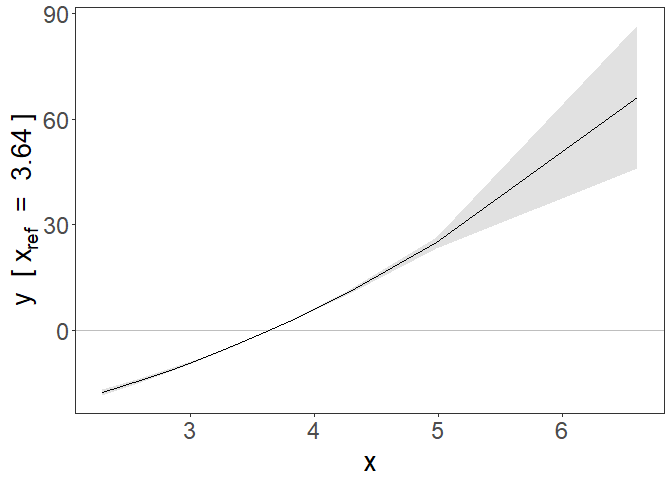
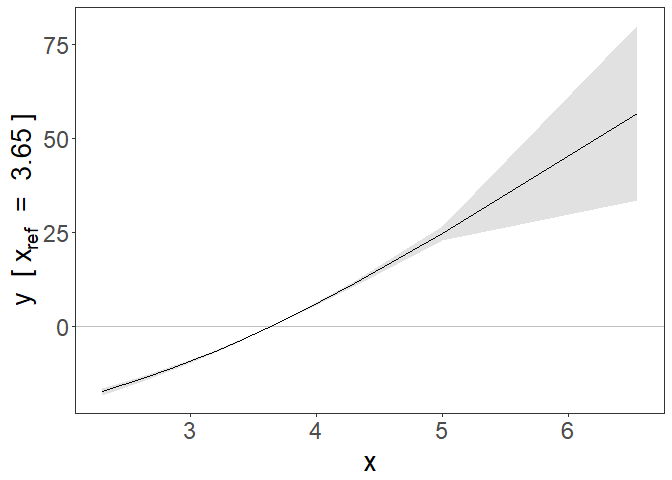
fixed missing cases breaking function

diff --git a/README.md b/README.md
@@ -66,21 +66,21 @@ devtools::load_all()
 ## create some data to practise on
 test_data<-create_ind_data(N=10000, beta2=2, beta1=1)
 # this creates quadratic.Y  = x + 2x^2 + errorY 
-head(test_data)
-#>   g           u    errorX      errorY        X linear.Y quadratic.Y   sqrt.Y
-#> 1 0 0.802975431 0.9579160  0.42883666 3.760891 4.832108    33.12072 3.010519
-#> 2 1 0.300695505 0.7700275 -0.79360776 3.320723 2.767672    24.82207 1.269234
-#> 3 0 0.942667757 1.6159523 -0.18407405 4.558620 5.128680    46.69071 2.705153
-#> 4 1 0.258957808 1.1221920 -0.33885723 3.631150 3.499459    29.86996 1.773867
-#> 5 0 0.329939421 0.7021331  0.06028663 3.032073 3.356311    21.74324 2.065523
-#> 6 1 0.007098159 0.2115599 -0.30224932 2.468658 2.172087    14.36063 1.274626
-#>       log.Y threshold.Y fracpoly.Y
-#> 1 2.3958730    4.832108   7.481421
-#> 2 0.6471312    2.767672   5.168037
-#> 3 2.0870801    5.128680   8.162720
-#> 4 1.1578584    3.499459   6.078558
-#> 5 1.4334846    3.356311   5.574803
-#> 6 0.6071039    2.172087   3.979437
+round(head(test_data), 2)
+#>   g    u errorX errorY    X linear.Y quadratic.Y sqrt.Y log.Y threshold.Y
+#> 1 2 0.51   5.90  -0.66 8.91     8.66      167.33   2.73  1.94        8.66
+#> 2 0 0.11   3.52   0.74 5.63     6.46       69.95   3.20  2.56        6.46
+#> 3 1 0.28   1.82  -0.04 4.35     4.53       42.33   2.26  1.65        4.53
+#> 4 0 0.32   1.51  -0.49 3.82     3.59       32.84   1.72  1.10        3.59
+#> 5 1 0.55   3.06  -0.73 5.86     5.57       74.26   2.13  1.48        5.57
+#> 6 0 0.55   0.19   0.50 2.75     3.69       18.76   2.60  1.96        3.69
+#>   fracpoly.Y
+#> 1      13.03
+#> 2       9.92
+#> 3       7.47
+#> 4       6.27
+#> 5       9.10
+#> 6       5.71
 ```
 
 Then we use create_nlmr_summary to summarise it.
@@ -98,14 +98,14 @@ summ_data<-create_nlmr_summary(y = test_data$quadratic.Y,
                                 controlsonly = FALSE,
                                 q = 10)
 
-head(summ_data$summary)
-#>          bx       by        bxse       byse    xmean     xmin     xmax
-#> 1 0.2514030 2.779295 0.005842237 0.08256328 2.458526 2.292075 2.710064
-#> 2 0.2387185 2.851723 0.003022464 0.06280557 2.754087 2.539313 2.986062
-#> 3 0.2476249 3.151911 0.002801175 0.06228915 2.952464 2.739957 3.136492
-#> 4 0.2417463 3.304672 0.002187074 0.05758683 3.126968 2.932898 3.384688
-#> 5 0.2445436 3.625258 0.002462056 0.05953798 3.286819 3.090312 3.470265
-#> 6 0.2361745 3.601040 0.003103201 0.06638415 3.483181 3.277492 3.687405
+round(head(summ_data$summary), 2)
+#>     bx   by bxse byse xmean xmin xmax
+#> 1 0.24 2.66 0.01 0.08  2.46 2.30 2.72
+#> 2 0.23 2.75 0.00 0.06  2.76 2.57 2.94
+#> 3 0.22 2.87 0.00 0.06  2.95 2.76 3.12
+#> 4 0.22 2.97 0.00 0.06  3.12 2.94 3.29
+#> 5 0.22 3.25 0.00 0.06  3.30 3.11 3.47
+#> 6 0.23 3.45 0.00 0.07  3.49 3.29 3.69
 ```
 
 Note 1: This example uses the residual method, which relies on
@@ -128,14 +128,14 @@ summ_covar<-create_nlmr_summary(y = test_data$quadratic.Y,
                                 strata_method = "residual", 
                                 q = 10)
   
-head(summ_covar$summary)
-#>            bx         by         bxse        byse    xmean     xmin     xmax
-#> 1 0.018331433 -1.7791212 2.257906e-03 0.370393684 3.497207 2.292075 7.310528
-#> 2 0.008517503 -0.6219498 2.704356e-04 0.019751144 2.969934 2.558453 2.912190
-#> 3 0.008984610 -0.6889187 1.750636e-04 0.014140987 3.214836 2.751615 5.649552
-#> 4 0.008766865 -0.6884917 1.233303e-04 0.010128115 3.302528 2.918187 3.436474
-#> 5 0.008686247 -0.7010795 9.481712e-05 0.008222132 3.453227 3.045727 4.858015
-#> 6 0.008508117 -0.7155731 8.369881e-05 0.007459338 3.712752 3.172862 5.222230
+round(head(summ_covar$summary), 2)
+#>     bx    by bxse byse xmean xmin xmax
+#> 1 0.02 -3.13    0 0.54  3.46 2.30 7.26
+#> 2 0.01 -0.72    0 0.02  2.96 2.57 2.91
+#> 3 0.01 -0.75    0 0.01  3.14 2.76 3.15
+#> 4 0.01 -0.76    0 0.01  3.36 2.91 5.48
+#> 5 0.01 -0.80    0 0.01  3.52 3.05 5.34
+#> 6 0.01 -0.80    0 0.01  3.71 3.18 5.21
 ```
 
 Note 2: Because the covariates are included as a matrix, lm cannot
@@ -160,14 +160,14 @@ summ_covar2<-create_nlmr_summary(y = test_data$quadratic.Y,
                                  family = "gaussian",
                                  q = 10)
 
-head(summ_covar2$summary)
-#>          bx       by       bxse      byse    xmean     xmin     xmax
-#> 1 0.2540068 2.860251 0.01056193 0.1353599 2.558141 2.318313 2.920534
-#> 2 0.2431432 2.933477 0.01076003 0.1448294 2.787350 2.446266 3.154044
-#> 3 0.2391517 3.160004 0.01112038 0.1536972 2.978264 2.630590 3.340381
-#> 4 0.2418358 3.403488 0.01224383 0.1749038 3.147037 2.776917 3.519838
-#> 5 0.2480532 3.630880 0.01401562 0.2130229 3.322328 2.926313 3.748002
-#> 6 0.2462628 3.768265 0.01594885 0.2550745 3.520329 3.073060 4.001755
+round(head(summ_covar2$summary), 2)
+#>     bx   by bxse byse xmean xmin xmax
+#> 1 0.26 3.09 0.01 0.14  2.57 2.33 2.95
+#> 2 0.24 2.98 0.01 0.16  2.80 2.44 3.17
+#> 3 0.24 3.09 0.01 0.17  2.98 2.63 3.39
+#> 4 0.25 3.43 0.01 0.20  3.16 2.78 3.57
+#> 5 0.25 3.53 0.01 0.23  3.33 2.93 3.78
+#> 6 0.24 3.74 0.02 0.29  3.54 3.09 4.09
 ```
 
 These have used a single genetic variant count, but the method works
@@ -365,14 +365,14 @@ summary(model)
 #> 
 #> Coefficients:
 #>   Estimate Std. Error 95%CI Lower 95%CI Upper   p.value    
-#> 2 2.187646   0.015263    2.157730      2.2176 < 2.2e-16 ***
+#> 2 2.173497   0.016894    2.140385      2.2066 < 2.2e-16 ***
 #> ---
 #> Signif. codes:  0 '***' 0.001 '**' 0.01 '*' 0.05 '.' 0.1 ' ' 1
 #> 
 #> Non-linearity tests
-#> Fractional polynomial degree p-value: 0.745
+#> Fractional polynomial degree p-value: 0.544
 #> Fractional polynomial non-linearity p-value: 0
-#> Quadratic p-value: 2.17e-79
+#> Quadratic p-value: 9.53e-64
 #> Cochran Q p-value: 0
 ```
 
@@ -410,7 +410,7 @@ And also testing the heterogeneity of the genetic-exposure associations:
 ``` r
 model$p_tests
 #>       fp_d1_d2 fp         quad Q
-#> [1,] 0.7448851  0 2.165767e-79 0
+#> [1,] 0.5436089  0 9.530291e-64 0
 
 model$p_heterogeneity
 #> NULL
@@ -437,21 +437,21 @@ summary(model2)
 #> 
 #> LACE:
 #>    Estimate Std. Error 95%CI Lower 95%CI Upper   p.value    
-#> 1  11.05514    0.34983    10.36948      11.741 < 2.2e-16 ***
-#> 2  11.94597    0.26084    11.43471      12.457 < 2.2e-16 ***
-#> 3  12.72857    0.26055    12.21790      13.239 < 2.2e-16 ***
-#> 4  13.67000    0.24484    13.19012      14.150 < 2.2e-16 ***
-#> 5  14.82458    0.25242    14.32984      15.319 < 2.2e-16 ***
-#> 6  15.24737    0.27825    14.70200      15.793 < 2.2e-16 ***
-#> 7  16.05937    0.32255    15.42717      16.692 < 2.2e-16 ***
-#> 8  17.43236    0.45367    16.54317      18.322 < 2.2e-16 ***
-#> 9  19.82682    0.78096    18.29613      21.358 < 2.2e-16 ***
-#> 10 25.47739    5.87923    13.95409      37.001 1.468e-05 ***
+#> 1  10.99674    0.38169    10.24863      11.745 < 2.2e-16 ***
+#> 2  12.06038    0.28170    11.50825      12.613 < 2.2e-16 ***
+#> 3  13.00691    0.29127    12.43602      13.578 < 2.2e-16 ***
+#> 4  13.23968    0.27268    12.70523      13.774 < 2.2e-16 ***
+#> 5  14.55665    0.27722    14.01331      15.100 < 2.2e-16 ***
+#> 6  15.19545    0.30532    14.59703      15.794 < 2.2e-16 ***
+#> 7  16.12712    0.37575    15.39065      16.864 < 2.2e-16 ***
+#> 8  17.65818    0.49879    16.68055      18.636 < 2.2e-16 ***
+#> 9  19.32462    0.87699    17.60572      21.044 < 2.2e-16 ***
+#> 10 20.69597    7.08301     6.81328      34.579  0.003479 ** 
 #> ---
 #> Signif. codes:  0 '***' 0.001 '**' 0.01 '*' 0.05 '.' 0.1 ' ' 1
 #> 
 #> Non-linearity tests
-#> Quadratic p-value: 2.17e-79
+#> Quadratic p-value: 9.53e-64
 #> Cochran Q p-value: 0
 ```
 
@@ -502,17 +502,17 @@ summary(model3)
 #> 
 #> Number of individuals: NA; Quantiles: 10; 95%CI: Model based SEs
 #> 
-#> Powers: 3
+#> Powers: -1
 #> 
 #> Coefficients:
-#>     Estimate Std. Error 95%CI Lower 95%CI Upper p.value
-#> 3 -0.0026913  0.0027798  -0.0081397      0.0028   0.333
+#>    Estimate Std. Error 95%CI Lower 95%CI Upper p.value
+#> -1  1.72861    1.35904    -0.93512      4.3923  0.2034
 #> 
 #> Non-linearity tests
-#> Fractional polynomial degree p-value: 0.936
-#> Fractional polynomial non-linearity p-value: 0.576
-#> Quadratic p-value: 0.635
-#> Cochran Q p-value: 0.868
+#> Fractional polynomial degree p-value: 0.889
+#> Fractional polynomial non-linearity p-value: 0.508
+#> Quadratic p-value: 0.611
+#> Cochran Q p-value: 0.68
 ```
 
 <img src="man/figures/README-bin-1.png" alt="" width="100%" /> Not
